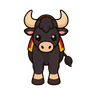
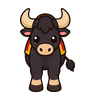
Verify all campaign completions and fix idle playback, stale input and gate readability

Changed region(s): [[0.1875, 0.0625, 0.7812, 0.9688]]

diff --git a/tools/import_sprite_sheet.py b/tools/import_sprite_sheet.py
@@ -23,7 +23,9 @@ def import_sheet(source, destination):
                 if r>125 and b>110 and strength>65:
                     a=0 if strength>100 else int(a*(100-strength)/35)
                     pix[xx,yy]=(r,g,b,a)
-        bbox=cell.getbbox()
+        # Ignore almost-transparent generation noise for registration.
+        alpha=cell.getchannel('A').point(lambda a: 255 if a >= 96 else 0)
+        bbox=alpha.getbbox()
         if not bbox: raise ValueError('empty animation cell')
         cells.append((cell,bbox));heights.append(bbox[3]-bbox[1])
     scale=84/statistics.median(heights)

diff --git a/REVIEW.md b/REVIEW.md
@@ -36,7 +36,7 @@ Siete pruebas nuevas cubren carga de teclado/stick, cancelación en pausa, entre
 - No se ha jugado en un teléfono: multitáctil, tacto, pausa/segundo plano y rendimiento siguen pendientes de dispositivo real.
 - Se conservan las reglas/progresión y los 20 niveles. Tiempos de niveles siguen necesitando sesiones de juego, no se han retocado a ciegas.
 - Sin publicación, sin merge a main, sin cambios de identidad de paquete o servicios.
-- El APK existente no representa esta rama. Abrir `project.godot` con Godot 4.7.2 para probar el código.
+- El APK antiguo `BIN/Rancho.apk` del historial no representa esta rama. Se ha creado aparte `GO-Rodeo-GO-review.apk` desde f195add; ver segundo incremento. Abrir `project.godot` con Godot 4.7.2 para probar el código.
 
 ## Historial revisado
 
@@ -51,3 +51,15 @@ La documentación original describía 184 tests y ausencia de arte: al comprobar
 - Icono de prueba basado en el personaje original. No cambia el identificador `com.example.rancho` ni prepara publicación.
 - Export Android excluye tests, GUT, herramientas, masters y documentación. APK debug arm64 generado y firma v2/v3 verificada. Sin prueba en teléfono.
 - 204 tests pasan. El vídeo de revisión usa Godot real con entradas y posiciones guionadas, no una partida humana. La captura fija de 30 fps no es una medición de rendimiento.
+
+## Tercer incremento
+
+- Prueba de ciclo completo para los 20 niveles: abrir/liberar, capturar, calmar, entregar mediante overlap físico y ganar. Posiciones controladas: no sustituye una partida humana ni prueba el equilibrio de dificultad.
+- Corregido idle que no comenzaba a reproducirse si la animación por defecto ya se llamaba `idle`.
+- Entrada táctil ignorada durante aturdimiento; una suelta arrastrada desde antes de pausar ya no dispara al volver.
+- Puertas/toros con números coincidentes, maestra marcada M; enlaces finos discontinuos detrás de personajes en vez de líneas rosas sobre sus caras.
+- Se mantienen las 20 geometrías, probabilidades y límites de tiempo originales.
+- 210 tests pasan en la última revisión, 3094 aserciones.
+
+- El ajuste de sonido se conserva al cambiar de nivel durante la sesión.
+- Registro del reposo del toro corregido usando alpha significativo, descartando ruido casi transparente.

diff --git a/CHANGELOG.md b/CHANGELOG.md
@@ -114,3 +114,11 @@ Primera versión comprobada con Godot 4.7.2 + GUT 9.7.1 en headless: 138 tests (
 
 ## v0.21.0 - rama de revisión, no main
 Ver `REVIEW.md`: controles de teclado/pausa, entrega del toro calmado dentro del corral, fin de puertas, 60 frames de animación integrados, arena/HUD y feedback. 200 tests pasando en Godot 4.7.2. Android no probado en dispositivo.
+
+## v0.21.1 - revisión incremental, no main
+- Reposo comienza de verdad; test temporal de frame.
+- Campaña completa comprobada en 20 niveles con posiciones deterministas.
+- Controles protegidos frente a aturdimiento y sueltas obsoletas tras pausa.
+- Puertas y toros numerados, maestra 1M, enlaces detrás de personajes.
+- Mute conservado en la sesión y registro alpha de reposo corregido.
+- 210 tests, 3094 aserciones pasan. Pruebas en Linux, no en dispositivo Android.
